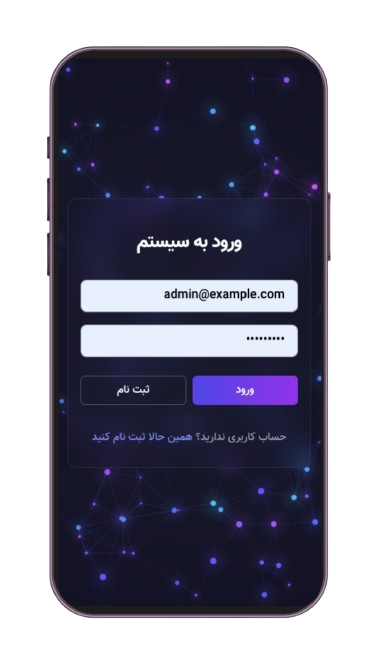
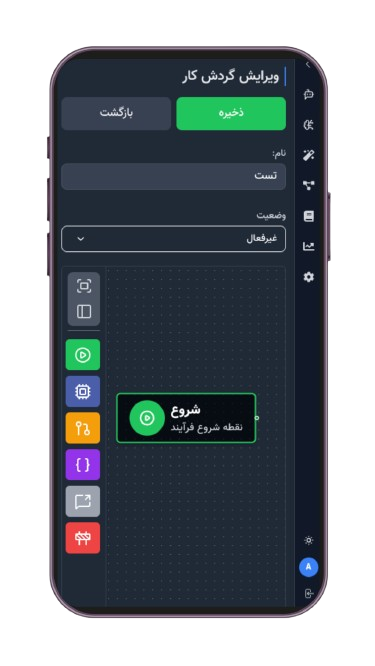
fix: replace some photos

diff --git a/src/components/About.tsx b/src/components/About.tsx
@@ -137,31 +137,36 @@ export default function About() {
       </section>
 
       <section className="position-relative feature-section ptb-100">
-        <div className="container">
-          <div className="row align-items-center justify-content-between justify-content-sm-center justify-content-md-center">
-            <div className="col-sm-5 col-md-6 col-lg-6 mb-5 mb-md-5 mb-sm-5 mb-lg-0">
-              <div className="download-img">
+        <div className="max-w-screen-2xl mx-auto px-6 sm:px-8 lg:px-12 xl:px-20 2xl:px-32">
+          <div className="row align-items-center justify-content-between g-0">
+            <div className="col-12 col-lg-6 mb-10 mb-lg-0">
+              <div className="text-center text-lg-end">
                 <img
                   src="/assets/img/about-us.png"
-                  alt="دانلود"
+                  alt="ساخت دستیار هوشمند با سینا AI"
                   className="img-fluid"
+                  style={{
+                    maxWidth: '100%',
+                    height: 'auto',
+                    borderRadius: '20px',
+                  }}
                 />
               </div>
             </div>
 
-            <div className="col-md-12 col-lg-6">
-              <div className="feature-contents">
-                <h2>به راحتی دستیارهای هوشمند بسازید</h2>
-                <p>
-                  سینا AI ابزارهای آمادهای برای ساخت، تست و دیپلوی چتبات و
-                  دستیارهای سازمانی دارد.
+            <div className="col-12 col-lg-6">
+              <div style={{ paddingRight: '100px', paddingLeft: '20px' }}>
+                <h2 className="mb-5 text-4xl lg:text-5xl font-bold leading-tight">
+                  به راحتی دستیارهای هوشمند بسازید
+                </h2>
+                <p className="text-lg lg:text-xl text-gray-700 mb-5 leading-relaxed">
+                  سینا AI ابزارهای آمادهای برای ساخت، تست و دیپلوی چتبات و دستیارهای سازمانی دارد.
                 </p>
-                <p>
-                  همه چیز بهصورت drag & drop قابل ساختن است؛ از سناریوهای ساده
-                  تا اتوماسیونهای پیچیده.
+                <p className="text-lg text-gray-600 mb-8 leading-relaxed">
+                  همه چیز بهصورت drag & drop قابل ساختن است؛ از سناریوهای ساده تا اتوماسیونهای پیچیده.
                 </p>
 
-                <ul className="dot-circle pt-2">
+                <ul className="dot-circle space-y-4 mb-10 text-lg">
                   <li>بدون نیاز به کدنویسی</li>
                   <li>قابل یادگیری برای تیمهای غیر فنی</li>
                   <li>اتصال به منابع داده شما</li>

diff --git a/src/components/Features.tsx b/src/components/Features.tsx
@@ -59,7 +59,7 @@ export default function Features() {
               <div className="position-relative pb-md-5 py-lg-0">
                 <img
                   alt="Sina AI"
-                  src="/assets/img/app-mobile-image.png"
+                  src="/assets/img/app-mobile-image-4.png"
                   className="img-center img-fluid"
                 />
               </div>
